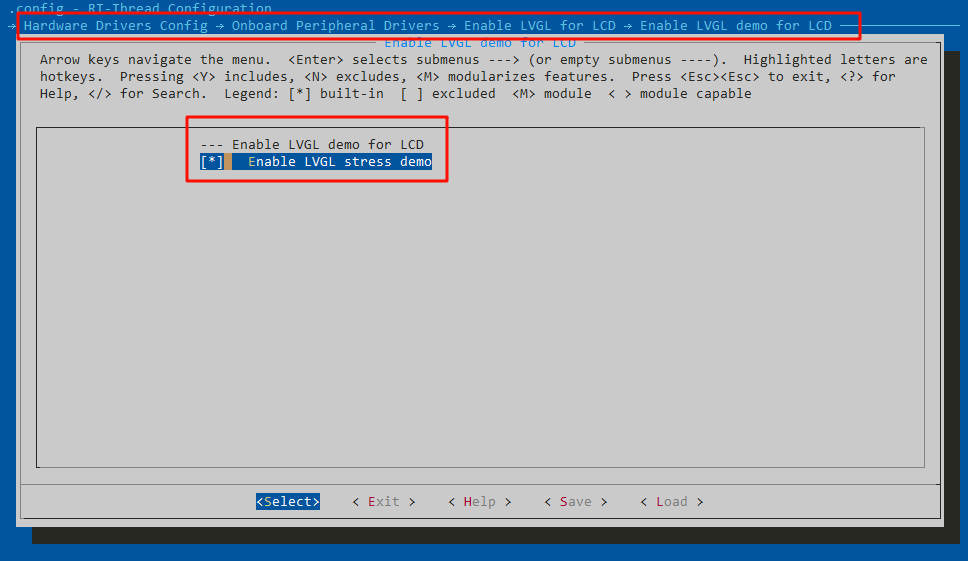
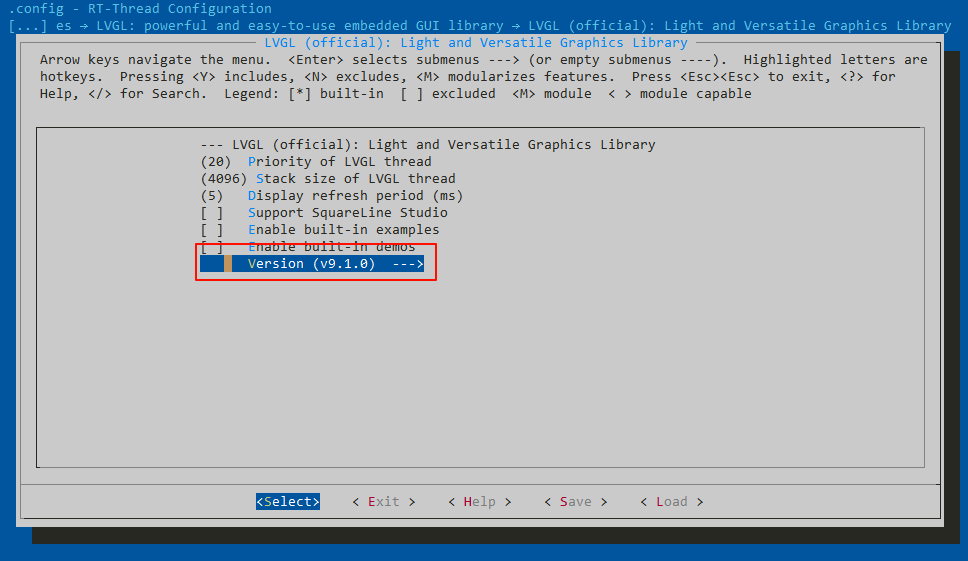
[renesas][hmi-board]update lvgl config and doc.

Changed region(s): [[0.186, 0.1818, 0.6818, 0.5152], [0.0, 0.0, 0.9917, 0.0909]]

diff --git a/bsp/renesas/ra6m3-hmi-board/docs/lvgl使用文档.md b/bsp/renesas/ra6m3-hmi-board/docs/lvgl使用文档.md
@@ -8,17 +8,18 @@
 
 ## RGB 屏使用配置
 
-在 `Hardware Drivers Config → On-chip Peripheral Drivers → Enable LVGL for LCD` 中使能 `Enable LVGL for LCD_RGB565` 选项
+在 `Hardware Drivers Config → On-chip Peripheral Drivers ` 使能 Enable LVGL demo for LCD 选项
 
 ![](picture/lvgl/22.png)
 
-* 进入Enable LVGL demo for LCD 中使能 LVGL stress demo
+* 进入Enable LVGL demo for LCD 中使能 LVGL demo
 
-![](picture/lvgl/23.png)
+  * Enable LVGL music demo 绑定的是LVGL8.3.x 版本
+  * Enable LVGL stress demo 绑定的是LVGL9.x 版本
 
-进入 RT-Thread online packages → multimedia packages → LVGL: powerful and easy-to-use embedded GUI library中，选择配套的LVGL版本：8.3.X 或者 9.X
-
-![](picture/lvgl/24.png)
+  ![](picture/lvgl/24.png)
+* 接下来进入:  `RT-Thread online packages → multimedia packages → LVGL: powerful and easy-to-use embedded GUI library → LVGL (official): Light and Versatile Graphics Library` 中选择LVGL版本
+  ![](picture/lvgl/23.png)
 
 接下来退出菜单界面，输入 `pkgs --update` 命令手动联网获取 lvgl 的软件包到 `packages` 文件夹下
 
@@ -36,7 +37,7 @@
 
 我们默认在fsp中使能了屏幕和Dave2d的外设
 
-![](C:\Users\RTT\AppData\Roaming\Typora\typora-user-images\image-20240429162653262.png)
+![](picture/lvgl/26.png)
 
 点击 `Generate Project Content` 生成配置相关代码
 
